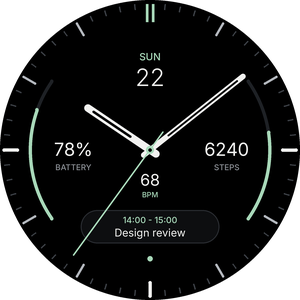
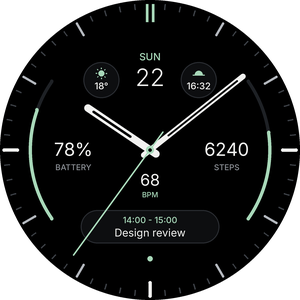
Add upper-left/right circular complication slots (weather, sunrise/sunset)
Claude-Session: https://claude.ai/code/session_0153GkUJgMbFYegMctzmUYaE

Changed region(s): [[0.6, 0.21, 0.72, 0.33], [0.27, 0.21, 0.39, 0.33], [0.39, 0.24, 0.42, 0.3]]

diff --git a/tools/generate.py b/tools/generate.py
@@ -39,6 +39,10 @@ ARC_THICK = 5
 BATT_START, BATT_SPAN = 235, 70    # left side, upward from bottom-left
 STEP_END, STEP_SPAN = 125, 70      # right side, upward from bottom-right
 
+# Small circular complication slots (upper left / upper right of the date)
+SUB_D = 56                       # diameter
+SUB_R_POS, SUB_ANGLE = 128, 35   # placed at 360-35 deg (left) and 35 deg (right)
+
 # Unread-notification dot (bottom, between the event pill and the 6 o'clock index)
 NOTIF_Y, NOTIF_R = 388, 4
 
@@ -358,6 +362,87 @@ def build_xml() -> str:
     x.close("Complication")
     x.close("ComplicationSlot")
 
+    # ---- Small circular slots (upper left / right) ---------------------------
+    x.comment("Upper-left / upper-right circular slots (default: weather picked by user / sunrise-sunset)")
+
+    def sub_slot(slot_id: int, name: str, display: str, angle: float, provider: str,
+                 provider_type: str) -> None:
+        cxp, cyp = polar(SUB_R_POS, angle)
+        D = SUB_D
+        cxp, cyp = round(cxp - D / 2) + D / 2, round(cyp - D / 2) + D / 2  # slot x/y must be integers
+        x.open("ComplicationSlot", slotId=slot_id, name=name, displayName=display,
+               x=cxp - D / 2, y=cyp - D / 2, width=D, height=D,
+               supportedTypes="SHORT_TEXT RANGED_VALUE MONOCHROMATIC_IMAGE SMALL_IMAGE EMPTY",
+               isCustomizable="TRUE")
+        x.leaf("DefaultProviderPolicy", defaultSystemProvider=provider,
+               defaultSystemProviderType=provider_type)
+        x.leaf("BoundingOval", x=0, y=0, width=D, height=D)
+        x.leaf("Variant", mode="AMBIENT", target="alpha", value=0)
+
+        def disc() -> None:
+            x.open("PartDraw", name="disc", x=0, y=0, width=D, height=D)
+            x.open("Ellipse", x=1, y=1, width=D - 2, height=D - 2)
+            x.leaf("Stroke", color="#FF2A2D32", thickness=1.5)
+            x.leaf("Fill", color="#FF0D0E10")
+            x.close("Ellipse")
+            x.close("PartDraw")
+
+        def icon(px, py, size) -> None:
+            x.open("PartImage", name="icon", x=px, y=py, width=size, height=size, tintColor=ACCENT)
+            x.leaf("Image", resource="[COMPLICATION.MONOCHROMATIC_IMAGE]")
+            x.close("PartImage")
+
+        # SHORT_TEXT: icon on top, value below
+        x.open("Complication", type="SHORT_TEXT")
+        disc()
+        icon(D / 2 - 9, 9, 18)
+        text_part(x, "value", 4, 27, D - 8, 20, 14, WHITE,
+                  template=("%s", ["[COMPLICATION.TEXT]"]), weight="MEDIUM")
+        x.close("Complication")
+
+        # RANGED_VALUE: progress ring + value
+        x.open("Complication", type="RANGED_VALUE")
+        disc()
+        x.open("PartDraw", name="ring", x=0, y=0, width=D, height=D)
+        x.open("Arc", centerX=D / 2, centerY=D / 2, width=D - 8, height=D - 8,
+               startAngle=0, endAngle=360)
+        x.leaf("Stroke", color=TRACK, thickness=3, cap="ROUND")
+        x.close("Arc")
+        x.open("Arc", centerX=D / 2, centerY=D / 2, width=D - 8, height=D - 8,
+               startAngle=0, endAngle=0)
+        x.leaf("Stroke", color=ACCENT, thickness=3, cap="ROUND")
+        x.leaf("Transform", target="endAngle",
+               value="360 * clamp(([COMPLICATION.RANGED_VALUE_VALUE] - [COMPLICATION.RANGED_VALUE_MIN])"
+                     " / max([COMPLICATION.RANGED_VALUE_MAX] - [COMPLICATION.RANGED_VALUE_MIN], 1), 0, 1)")
+        x.close("Arc")
+        x.close("PartDraw")
+        text_part(x, "value", 6, D / 2 - 10, D - 12, 20, 14, WHITE,
+                  template=("%s", ["[COMPLICATION.TEXT]"]), weight="MEDIUM")
+        x.close("Complication")
+
+        # MONOCHROMATIC_IMAGE: centred icon
+        x.open("Complication", type="MONOCHROMATIC_IMAGE")
+        disc()
+        icon(D / 2 - 13, D / 2 - 13, 26)
+        x.close("Complication")
+
+        # SMALL_IMAGE: centred image
+        x.open("Complication", type="SMALL_IMAGE")
+        disc()
+        x.open("PartImage", name="image", x=D / 2 - 15, y=D / 2 - 15, width=30, height=30)
+        x.leaf("Image", resource="[COMPLICATION.SMALL_IMAGE]")
+        x.close("PartImage")
+        x.close("Complication")
+
+        x.open("Complication", type="EMPTY")
+        x.close("Complication")
+        x.close("ComplicationSlot")
+
+    # Weather has no system provider in WFF v1, so the left slot starts empty and the
+    # user picks a weather complication (e.g. Google Weather) from the customise screen.
+    sub_slot(1, "upper_left", "@string/slot_left", 360 - SUB_ANGLE, "EMPTY", "EMPTY")
+    sub_slot(2, "upper_right", "@string/slot_right", SUB_ANGLE, "SUNRISE_SUNSET", "SHORT_TEXT")
+
     # ---- Unread notification dot ---------------------------------------------
     x.comment("Unread notification indicator: small accent dot at the bottom, only when unread > 0")
     x.open("Condition")
@@ -414,7 +499,8 @@ def render_preview(path: pathlib.Path, theme_idx=0, ambient=False, scale_out=1.0
     from PIL import Image, ImageDraw, ImageFont
 
     data = data or dict(weekday="SUN", day=22, batt=78, steps=6240, step_pct=62, hr=68,
-                        ev_time="14:00 - 15:00", ev_title="Design review", unread=3)
+                        ev_time="14:00 - 15:00", ev_title="Design review", unread=3,
+                        left=("sun", "18°"), right=("sunset", "16:32"))
     S = 4  # supersampling
     W = SIZE * S
     img = Image.new("RGBA", (W, W), (0, 0, 0, 255))
@@ -506,6 +592,33 @@ def render_preview(path: pathlib.Path, theme_idx=0, ambient=False, scale_out=1.0
     text(data["ev_time"], (cx + 18, cy + 7, cw - 36, 18), 13, col(acc, ca), "Medium")
     text(data["ev_title"], (cx + 18, cy + 24, cw - 36, 22), 16, col(WHITE, ca))
 
+    # small circular slots
+    if not ambient:
+        for ang, key in ((360 - SUB_ANGLE, "left"), (SUB_ANGLE, "right")):
+            cxp, cyp = polar(SUB_R_POS, ang)
+            cxp, cyp = round(cxp - SUB_D / 2) + SUB_D / 2, round(cyp - SUB_D / 2) + SUB_D / 2
+            R = SUB_D / 2
+            layer = Image.new("RGBA", img.size, (0, 0, 0, 0))
+            ld = ImageDraw.Draw(layer)
+            ld.ellipse([P(cxp - R + 1), P(cyp - R + 1), P(cxp + R - 1), P(cyp + R - 1)],
+                       fill=col("#FF0D0E10"), outline=col("#FF2A2D32"), width=int(1.5 * S))
+            img.alpha_composite(layer)
+            d = ImageDraw.Draw(img)
+            kind, val = data.get(key, (None, ""))
+            ix, iy = cxp, cyp - R + 18
+            a = col(acc)
+            if kind == "sun":
+                d.ellipse([P(ix - 4.5), P(iy - 4.5), P(ix + 4.5), P(iy + 4.5)], fill=a)
+                for k in range(8):
+                    x1, y1 = ix + 6.5 * math.sin(k * math.pi / 4), iy - 6.5 * math.cos(k * math.pi / 4)
+                    x2, y2 = ix + 8.5 * math.sin(k * math.pi / 4), iy - 8.5 * math.cos(k * math.pi / 4)
+                    d.line([P(x1), P(y1), P(x2), P(y2)], fill=a, width=int(1.6 * S))
+            elif kind == "sunset":
+                d.pieslice([P(ix - 6), P(iy - 4), P(ix + 6), P(iy + 8)], 180, 360, fill=a)
+                d.line([P(ix - 9), P(iy + 2.5), P(ix + 9), P(iy + 2.5)], fill=a, width=int(1.6 * S))
+            if val:
+                text(val, (cxp - R + 4, cyp - R + 27, SUB_D - 8, 20), 14, col(WHITE), "Medium")
+
     # unread notification dot
     if data.get("unread", 0) > 0:
         na = 180 / 255 if ambient else 1
@@ -558,6 +671,8 @@ def build_strings() -> tuple[str, str]:
         "config_seconds": "Seconds hand",
         "config_gauges": "Battery / steps gauges",
         "slot_bottom": "Bottom (next event)",
+        "slot_left": "Upper left (weather)",
+        "slot_right": "Upper right (sunrise / sunset)",
     }
     ja = {
         "app_name": "Meridian",
@@ -565,6 +680,8 @@ def build_strings() -> tuple[str, str]:
         "config_seconds": "秒針",
         "config_gauges": "バッテリー / 歩数ゲージ",
         "slot_bottom": "下部（次の予定）",
+        "slot_left": "左上（天気）",
+        "slot_right": "右上（日の出・日の入り）",
     }
     for tid, _, _, en_name, ja_name in THEMES:
         en[f"theme_{tid}"] = en_name
